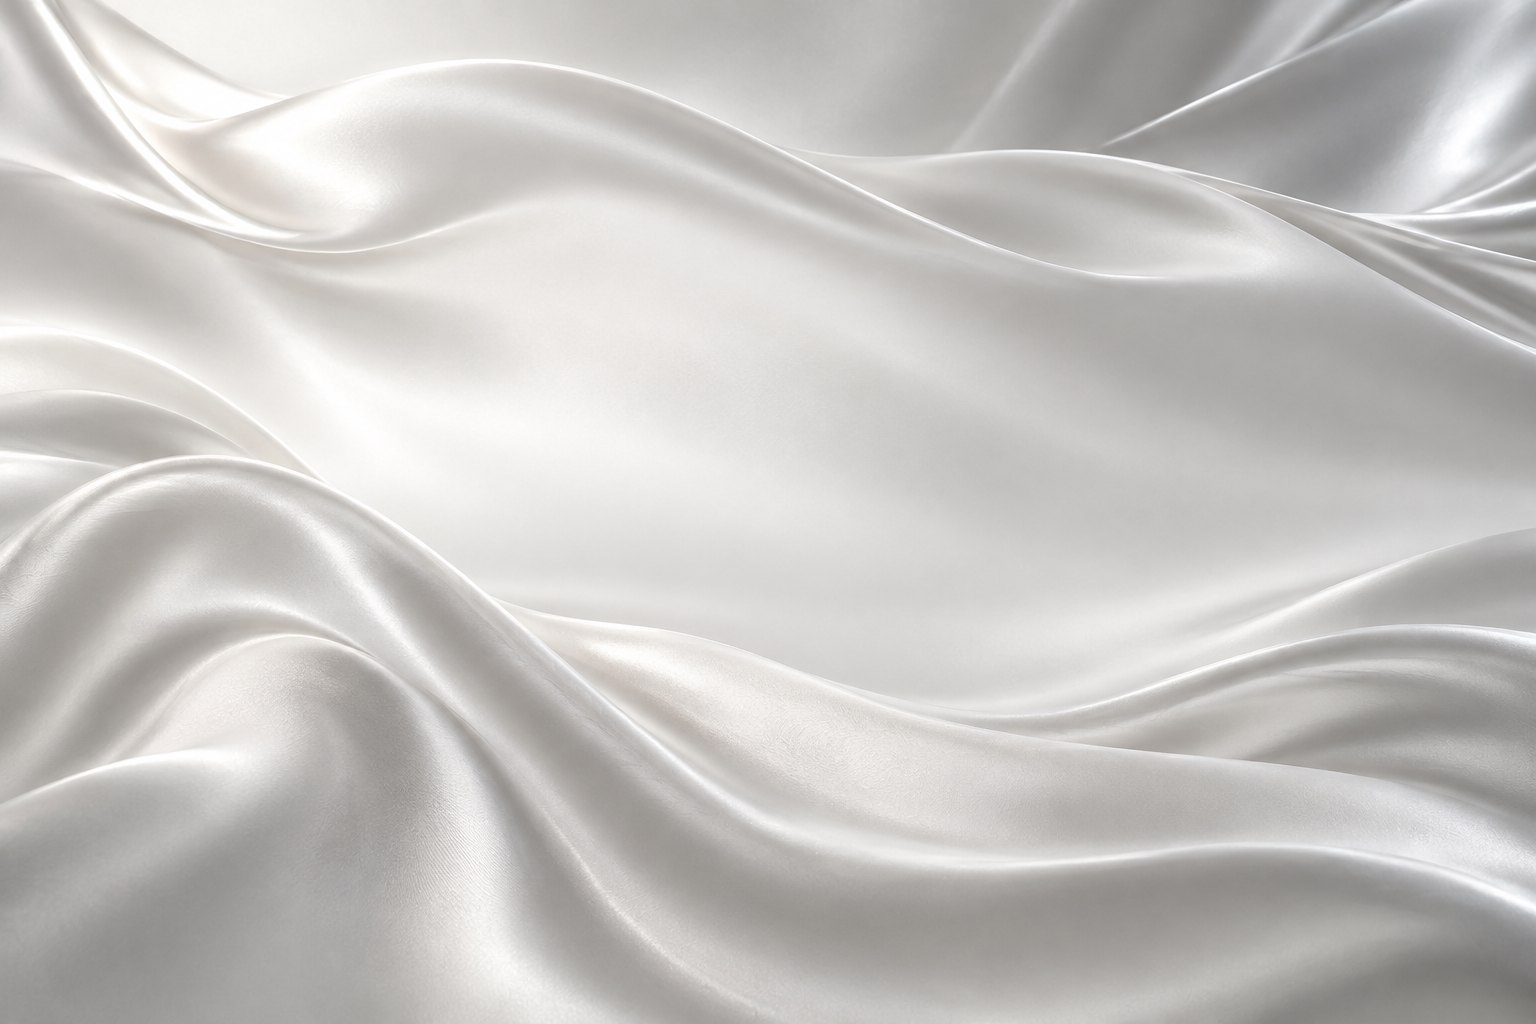
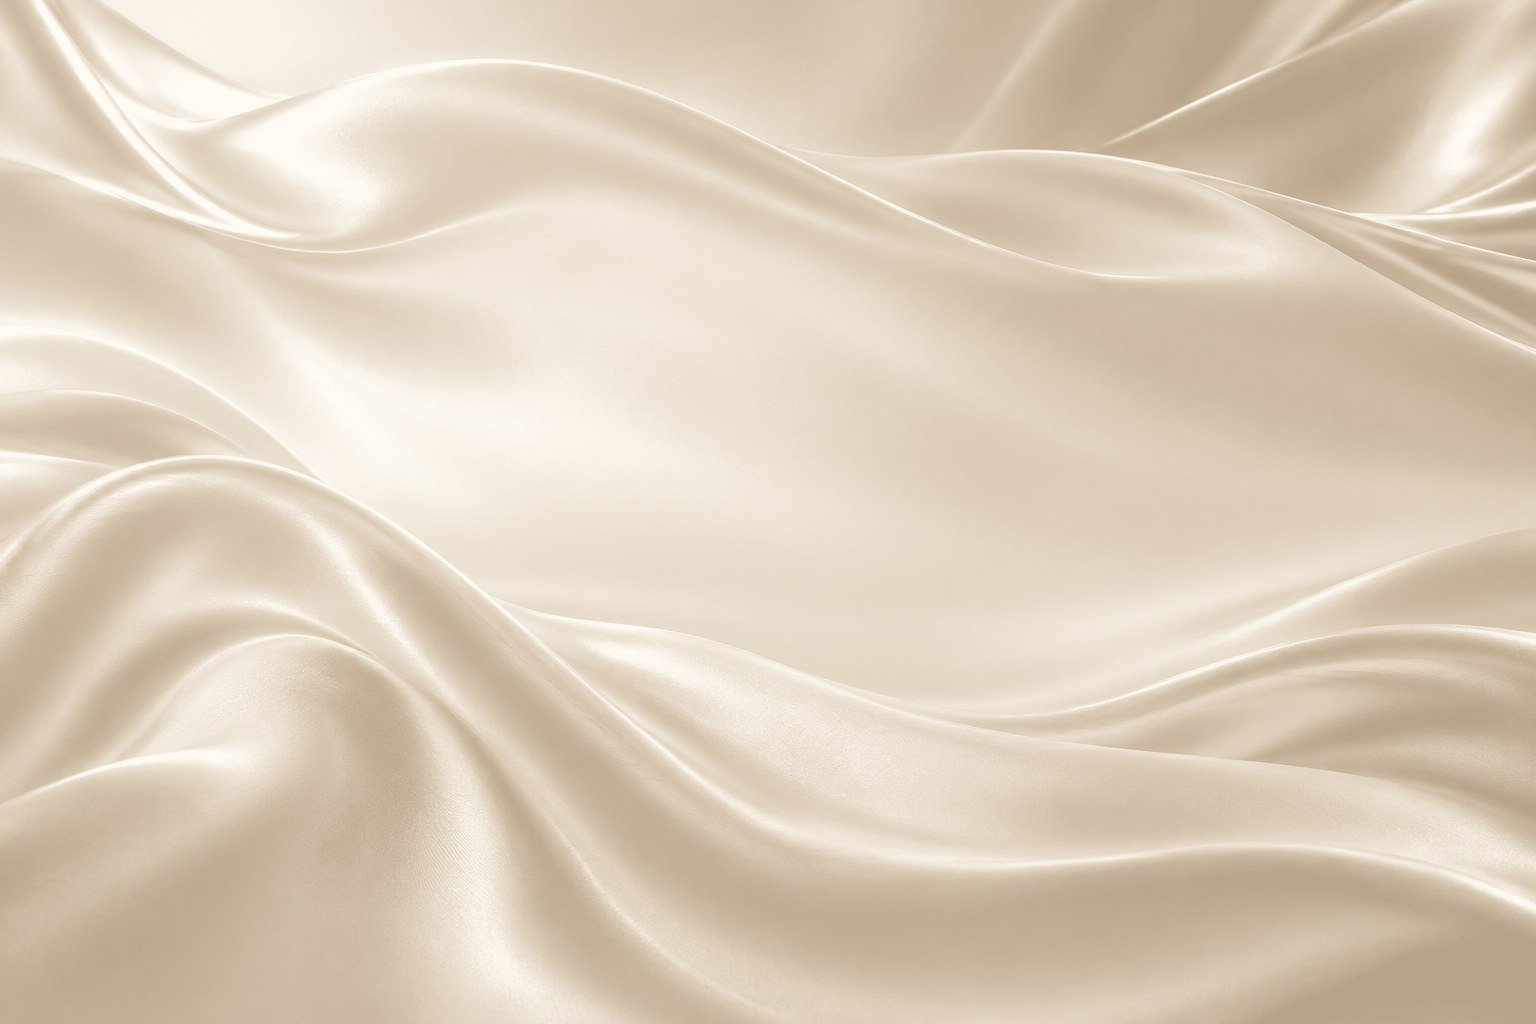
Raso di hero e footer in toni champagne invece che grigio
Il raso era troppo freddo per il sito: ricolorato con una scala di
sabbia calda (ombre cammello chiaro, toni medi sabbia, luci avorio),
le stesse tinte del fondo delle foto dei trattamenti. Niente rosati:
le tonalità restano fra 35° e 40°. Si accordano anche la schiuma, ora
avorio, le pillole della barra, ora sabbia, e lo sfondo di riserva.
L'immagine è richiamata con ?v=2 perché i browser non tengano quella
grigia in cache.

diff --git a/styles.css b/styles.css
@@ -6,7 +6,7 @@
   --cream: #FFFAF1;
   --wine: #3F1521;
   --sky: #C3E8EB;
-  --pearl: #ECE9E5;
+  --sand: #E8DED2;
   --card-bg: #EFE7DA;
 
   --sans: "Instrument Sans", system-ui, -apple-system, sans-serif;
@@ -92,7 +92,7 @@ body { position: relative; }
 .bar {
   height: var(--bar-h);
   border-radius: calc(var(--bar-h) / 2);
-  background: rgba(236, 233, 229, .78);
+  background: rgba(232, 222, 210, .82);
   -webkit-backdrop-filter: blur(30px);
   backdrop-filter: blur(30px);
   color: var(--wine);
@@ -262,7 +262,7 @@ main { padding-top: 52px; }
   color: var(--wine);
   text-align: center;
   /* senza WebGL (o prima che parta) resta il raso fermo */
-  background: #EDEDEB url("img/hero-satin.jpg") center / cover no-repeat;
+  background: var(--sand) url("img/hero-satin.jpg?v=2") center / cover no-repeat;
 }
 
 /* raso animato (hero e footer): compare in dissolvenza quando è pronto */
@@ -450,7 +450,7 @@ main { padding-top: 52px; }
 }
 .js .treatment.reveal.is-visible { opacity: 1; transform: none; }
 
-/* ---------- Footer: pannello perla con le pillole della barra in alto ---------- */
+/* ---------- Footer: pannello di raso con le pillole della barra in alto ---------- */
 
 .footer { padding: 0 10px 10px; }
 
@@ -462,7 +462,7 @@ main { padding-top: 52px; }
   padding: 28px 28px 22px;
   border-radius: clamp(28px, calc(100vw / 18.9), 80px);
   /* senza WebGL (o prima che parta) resta il raso fermo, come nella hero */
-  background: var(--pearl) url("img/hero-satin.jpg") center / cover no-repeat;
+  background: var(--sand) url("img/hero-satin.jpg?v=2") center / cover no-repeat;
   color: var(--wine);
 }
 .footer__card > :not(.cream-canvas) { position: relative; z-index: 1; }
@@ -479,13 +479,13 @@ main { padding-top: 52px; }
   align-items: center;
   padding: 0 18px;
   border-radius: 16px;
-  background: rgba(255, 255, 255, .7);
+  background: rgba(255, 251, 244, .72);
   font-size: 13px;
   letter-spacing: .02em;
   white-space: nowrap;
   transition: background-color .2s var(--ease), color .2s var(--ease);
 }
-.footer__pill:hover { background: #fff; }
+.footer__pill:hover { background: #FFFBF4; }
 
 /* come su Yuri Roga: «Email», e al passaggio l'indirizzo */
 .footer__pill[data-email]::before { content: "Email"; }

diff --git a/index.html b/index.html
@@ -101,7 +101,7 @@
     <!-- HERO -->
     <section class="hero" id="top">
       <!-- raso di crema animato (WebGL, in script.js); senza WebGL resta l'immagine ferma del CSS -->
-      <canvas class="cream-canvas" data-src="img/hero-satin.jpg" aria-hidden="true"></canvas>
+      <canvas class="cream-canvas" data-src="img/hero-satin.jpg?v=2" aria-hidden="true"></canvas>
 
       <div class="hero__content">
         <h1 class="hero__title">Prima di trattare la tua pelle, la ascoltiamo. Niente protocolli uguali per tutti: solo cura su misura e tempo dedicato a te.</h1>
@@ -271,7 +271,7 @@
   <footer class="footer" id="contatti">
     <div class="footer__card">
       <!-- lo stesso raso animato della hero (script.js) -->
-      <canvas class="cream-canvas" data-src="img/hero-satin.jpg" aria-hidden="true"></canvas>
+      <canvas class="cream-canvas" data-src="img/hero-satin.jpg?v=2" aria-hidden="true"></canvas>
 
       <nav class="footer__pills" aria-label="Contatti">
         <a class="footer__pill" href="https://www.google.com/maps/search/?api=1&amp;query=Estetica%20Skin%20Care%2C%20Via%20Ca%27%20Baroncello%2048%2C%20Cassola%20VI" target="_blank" rel="noopener">Via Ca' Baroncello 48, Cassola</a>

diff --git a/script.js b/script.js
@@ -1,4 +1,4 @@
-// Raso di crema bianco-perla che respira, animato in WebGL (hero e footer)
+// Raso di crema color champagne che respira, animato in WebGL (hero e footer)
 // La base è un render del raso (img/hero-satin.jpg): lo shader lo fa ondeggiare piano come un
 // tessuto, ci fa scorrere sopra un velo di luce e, sotto il cursore, lo rifrange appena come
 // attraverso un velo d'acqua lasciando una scia di schiuma bianca che si dirada bolla per bolla.
@@ -139,7 +139,7 @@ void main() {
                     on2 * smoothstep(0.28, 0.40, c2.x) * smoothstep(0.52, 0.42, c2.x));
     float glint = max(on1 * smoothstep(0.10, 0.0, length(c1.zw - vec2(-0.13, 0.13))),
                       on2 * smoothstep(0.10, 0.0, length(c2.zw - vec2(-0.12, 0.12))));
-    vec3 milk = vec3(1.0, 1.0, 0.995);
+    vec3 milk = vec3(1.0, 0.988, 0.962);   // schiuma avorio
     col = mix(col, milk, smoothstep(0.03, 0.65, dens) * 0.80);
     col = mix(col, milk, bub * dens * 0.30);
     col -= rim * dens * 0.07;

diff --git a/img/CREDITS.md b/img/CREDITS.md
@@ -10,6 +10,7 @@ texture.
 Sono immagini provvisorie: quando lo studio avrà foto proprie dei trattamenti,
 vanno sostituite tenendo lo stesso formato (880×1100, 4:5) e lo stesso nome file.
 
-La hero parte da `hero-satin.jpg`, un raso di crema bianco-perla generato con lo
-stesso modello: in `script.js` uno shader WebGL lo fa ondeggiare piano e ci disegna
+Hero e footer partono da `hero-satin.jpg`, un raso generato con lo stesso modello e
+poi ricolorato in toni champagne e sabbia (le stesse tinte del fondo delle foto dei
+trattamenti): in `script.js` uno shader WebGL lo fa ondeggiare piano e ci disegna
 sopra la schiuma che segue il cursore.

diff --git a/README.md b/README.md
@@ -31,7 +31,7 @@ Any static server works, and so does opening `index.html` directly.
 ```
 index.html              the whole page: top bar and dropdowns, hero, treatments, footer
 styles.css              design tokens in :root, then one block per section
-script.js               the pearl-white satin that breathes in the hero and the footer
+script.js               the champagne satin that breathes in the hero and the footer
                         (WebGL over img/hero-satin.jpg) and foams under the cursor;
                         dropdowns, tiles fading in
 img/hero-satin.jpg      the satin the hero animation starts from
